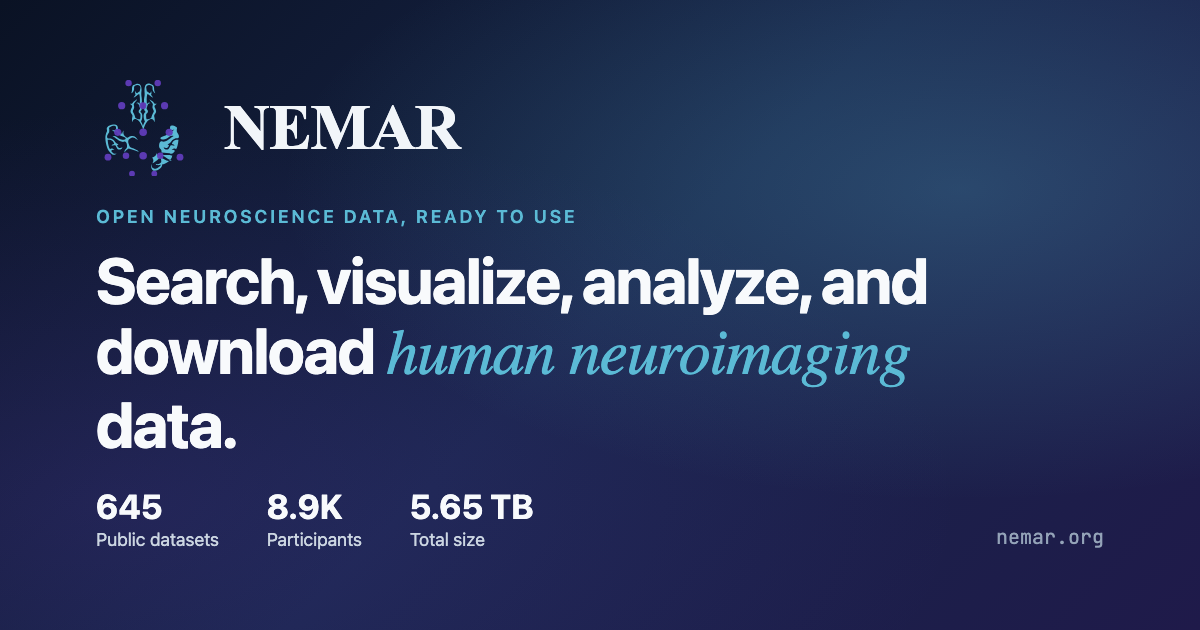
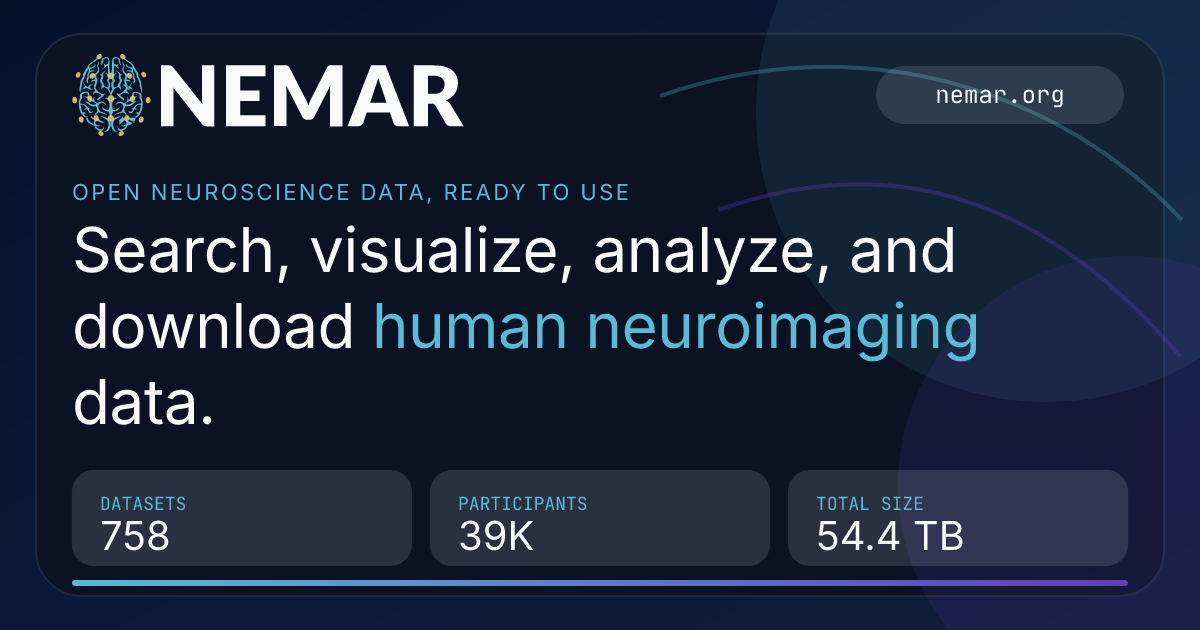
Auto-generate site OG card from live stats

diff --git a/src/lib/site-og-image.ts b/src/lib/site-og-image.ts
@@ -1,0 +1,71 @@
+/**
+ * Site-wide Open Graph card (the share image for nemar.org / the homepage).
+ *
+ * Deliberately mirrors the per-dataset OG card (`renderDatasetOgSvg` in
+ * `og-image.ts`): same navy background, embedded vector logo, brand glow
+ * arcs, metric tiles, and accent bar (shared chrome lives in `og-chrome.ts`).
+ * The ONLY thing that changes between regenerations is the three headline
+ * numbers (hosted datasets, participants, total size) — everything else is a
+ * fixed template. `scripts/generate-site-og-image.mjs` calls this on every
+ * build (and every 4h cron rebuild) so the numbers stay current without a
+ * hand-edited PNG.
+ *
+ * The one deliberate difference from the dataset card is the aspect ratio:
+ * 1200x630 (the standard 1.91:1 social ratio the homepage `<meta>` already
+ * advertises) rather than the dataset card's 1200x800. Logo colors — gold
+ * electrode dots and cyan brain outline — match the dataset card via the
+ * shared constants in `og-chrome.ts`.
+ */
+import { formatBytes, formatCount } from "./format";
+import { BRAND_CYAN, ELECTRODE_GOLD, INK, OG_DEFS, escapeXml } from "./og-chrome";
+import type { HostedStats } from "./stats";
+
+/** Same three fields as the homepage hero's hosted totals. */
+export type SiteOgStats = HostedStats;
+
+const CARD_W = 1200;
+const CARD_H = 630;
+
+export function renderSiteOgSvg(stats: SiteOgStats, logoSvg: string): string {
+  const embeddedLogo = logoSvg
+    .replace(
+      /^<svg\b/,
+      `<svg x="72" y="54" width="392" height="82" color="${INK}" style="color:${INK}"`,
+    )
+    .replaceAll("var(--brand-accent, currentColor)", BRAND_CYAN)
+    .replaceAll("var(--brand-electrode, currentColor)", ELECTRODE_GOLD);
+
+  const datasets = formatCount(stats.datasets);
+  const participants = formatCount(stats.participants);
+  const size = stats.size > 0 ? formatBytes(stats.size) : "Unavailable";
+
+  return `<?xml version="1.0" encoding="UTF-8"?>
+<svg xmlns="http://www.w3.org/2000/svg" width="${CARD_W}" height="${CARD_H}" viewBox="0 0 ${CARD_W} ${CARD_H}" role="img" aria-label="NEMAR — open neuroscience data, ready to use">
+  ${OG_DEFS}
+  <rect width="${CARD_W}" height="${CARD_H}" fill="url(#bg)"/>
+  <rect x="36" y="34" width="1128" height="562" rx="46" fill="#0a1224" stroke="#1e293b" stroke-width="2"/>
+  <circle cx="1046" cy="112" r="290" fill="#5bbad5" opacity="0.10"/>
+  <circle cx="1128" cy="486" r="230" fill="#603cba" opacity="0.14"/>
+  <path d="M660 96 C858 26 1058 88 1182 220" fill="none" stroke="#5bbad5" stroke-width="4" opacity="0.28"/>
+  <path d="M718 210 C900 146 1050 204 1180 356" fill="none" stroke="#603cba" stroke-width="4" opacity="0.32"/>
+  ${embeddedLogo}
+  <rect x="876" y="66" width="248" height="58" rx="29" fill="#f8fafc" opacity="0.12"/>
+  <text x="1000" y="103" text-anchor="middle" font-family="JetBrains Mono" font-size="24" font-weight="700" fill="#f8fafc">nemar.org</text>
+  <text x="72" y="200" font-family="Inter" font-size="22" font-weight="700" fill="#5bbad5" letter-spacing="2.4">OPEN NEUROSCIENCE DATA, READY TO USE</text>
+  <text x="72" y="272" font-family="Inter" font-size="62" font-weight="700" fill="#f8fafc" letter-spacing="-0.5"><tspan x="72" dy="0">Search, visualize, analyze, and</tspan><tspan x="72" dy="76">download <tspan fill="#5bbad5">human neuroimaging</tspan></tspan><tspan x="72" dy="76">data.</tspan></text>
+  <g transform="translate(72 470)">
+    ${metricTile(0, 0, 340, "Datasets", datasets)}
+    ${metricTile(358, 0, 340, "Participants", participants)}
+    ${metricTile(716, 0, 340, "Total size", size)}
+  </g>
+  <rect x="72" y="580" width="1056" height="6" rx="3" fill="url(#accent)"/>
+</svg>`;
+}
+
+function metricTile(x: number, y: number, width: number, label: string, value: string): string {
+  return `<g transform="translate(${x} ${y})">
+    <rect width="${width}" height="96" rx="22" fill="#f8fafc" opacity="0.13" stroke="#cbd5e1" stroke-opacity="0.18" filter="url(#shadow)"/>
+    <text x="28" y="40" font-family="JetBrains Mono" font-size="18" font-weight="700" fill="#5bbad5">${escapeXml(label.toUpperCase())}</text>
+    <text x="28" y="80" font-family="Inter" font-size="40" font-weight="700" fill="#f8fafc">${escapeXml(value)}</text>
+  </g>`;
+}

diff --git a/src/lib/og-chrome.ts b/src/lib/og-chrome.ts
@@ -1,0 +1,45 @@
+/**
+ * Shared chrome for the hand-rolled OG cards (`og-image.ts` dataset card and
+ * `site-og-image.ts` site card). These pieces are byte-identical between the
+ * two templates, so they live here to stay in sync — unlike the per-card
+ * geometry (glow circles, metric tiles), which differs by aspect ratio and is
+ * intentionally kept separate.
+ */
+
+/** Logo electrode-dot color on the dark cards. Light gold so the dots stay
+ *  legible against the navy background where the previous blue-violet washed
+ *  out. Shared so both cards render identical dots. */
+export const ELECTRODE_GOLD = "#f4d06b";
+
+/** The brain-outline stroke color (brand cyan) baked into the embedded logo. */
+export const BRAND_CYAN = "#5bbad5";
+
+/** Wordmark / foreground ink on the dark cards. */
+export const INK = "#f8fafc";
+
+/** `<defs>` shared by both cards: the navy background gradient, the cyan→purple
+ *  accent gradient, and the drop-shadow filter used by the metric tiles. All
+ *  geometry-independent (gradient coords are objectBoundingBox fractions). */
+export const OG_DEFS = `<defs>
+    <linearGradient id="bg" x1="0" x2="1" y1="0" y2="1">
+      <stop offset="0%" stop-color="#06112a"/>
+      <stop offset="58%" stop-color="#0b1a3a"/>
+      <stop offset="100%" stop-color="#111d36"/>
+    </linearGradient>
+    <linearGradient id="accent" x1="0" x2="1">
+      <stop offset="0%" stop-color="#5bbad5"/>
+      <stop offset="100%" stop-color="#603cba"/>
+    </linearGradient>
+    <filter id="shadow" x="-10%" y="-20%" width="120%" height="160%">
+      <feDropShadow dx="0" dy="18" stdDeviation="20" flood-color="#020617" flood-opacity="0.24"/>
+    </filter>
+  </defs>`;
+
+export function escapeXml(value: string): string {
+  return value
+    .replace(/&/g, "&amp;")
+    .replace(/</g, "&lt;")
+    .replace(/>/g, "&gt;")
+    .replace(/"/g, "&quot;")
+    .replace(/'/g, "&apos;");
+}

diff --git a/src/lib/site-og-image.test.ts b/src/lib/site-og-image.test.ts
@@ -1,0 +1,31 @@
+import { describe, expect, it } from "vitest";
+import { renderSiteOgSvg } from "./site-og-image";
+
+const LOGO =
+  '<svg viewBox="0 0 10 10"><g fill="var(--brand-accent, currentColor)"></g><g fill="var(--brand-electrode, currentColor)"></g></svg>';
+
+describe("renderSiteOgSvg", () => {
+  it("renders the three hosted stats with hero formatting", () => {
+    const svg = renderSiteOgSvg({ datasets: 759, participants: 8_900, size: 54 * 1024 ** 4 }, LOGO);
+
+    expect(svg).toContain(">759<");
+    expect(svg).toContain(">8.9K<"); // formatCount
+    expect(svg).toContain(">54.0 TB<"); // formatBytes
+    expect(svg).toContain('width="1200" height="630"');
+  });
+
+  it("bakes light-gold electrodes and white wordmark into the embedded logo", () => {
+    const svg = renderSiteOgSvg({ datasets: 1, participants: 1, size: 1024 }, LOGO);
+
+    expect(svg).toContain('style="color:#f8fafc"');
+    expect(svg).toContain('fill="#5bbad5"'); // brain outline stays cyan
+    expect(svg).toContain('fill="#f4d06b"'); // electrodes -> light gold
+    expect(svg).not.toContain("var(--brand-accent");
+    expect(svg).not.toContain("var(--brand-electrode");
+  });
+
+  it("shows Unavailable rather than a zero size when the catalog is empty", () => {
+    const svg = renderSiteOgSvg({ datasets: 0, participants: 0, size: 0 }, LOGO);
+    expect(svg).toContain(">Unavailable<");
+  });
+});
